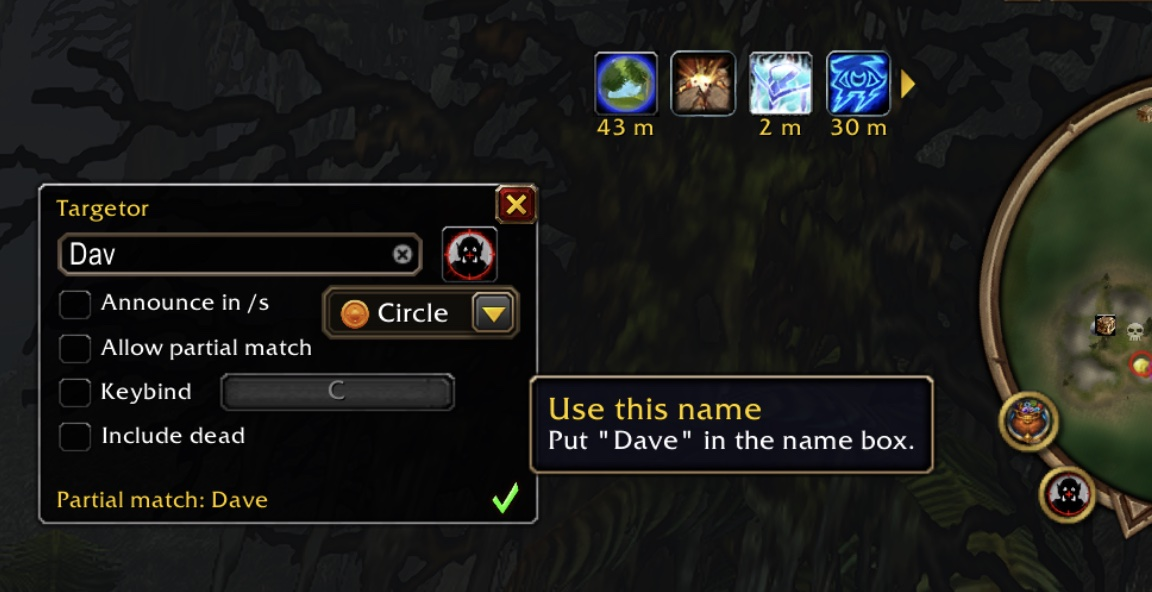
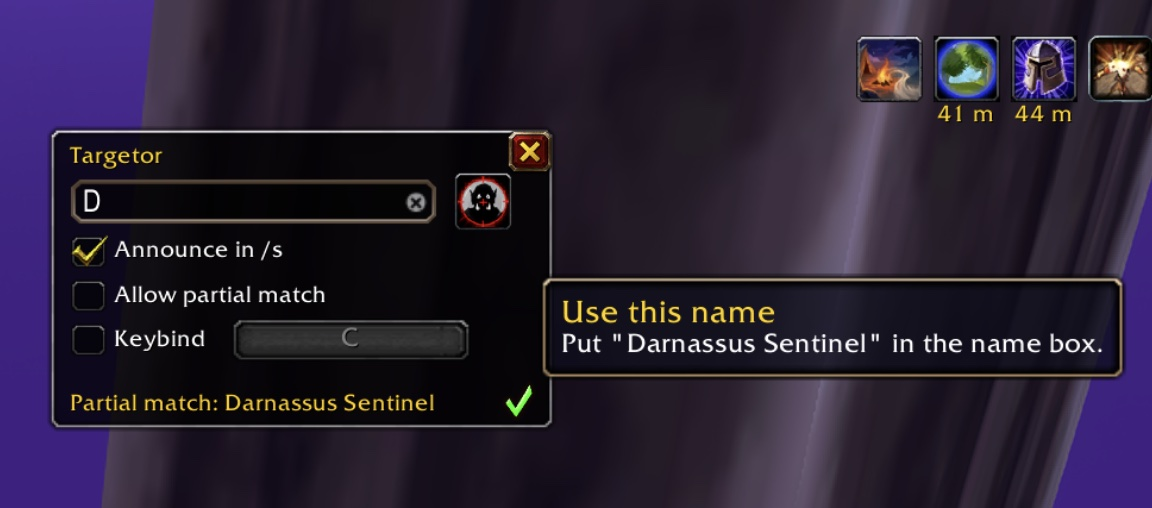
Targetor: roll back to 1.3.0
Remove the 1.4.0 Include dead option and restore the 1.3.0 behaviour.
Update the README and the main screenshot to match.

diff --git a/README.md b/README.md
@@ -5,7 +5,7 @@ They're built for and tested on the 1.x "Forever" client, and their `.toc` files
 
 | Addon | Version | What it does |
 | --- | --- | --- |
-| [**Targetor**](#targetor) | 1.4.0 | Type a name and click, or press your keybind, to target it. Exact matches get a raid marker of your choice (square by default) and an optional `/s` announcement. |
+| [**Targetor**](#targetor) | 1.3.0 | Type a name and click, or press your keybind, to target it. Exact matches get a raid marker of your choice (square by default) and an optional announcement in `/s`, `/p`, `/e` or `/y`. |
 | [**Gold Audit**](#gold-audit) | 1.0.0 | Records every change to your gold and what caused it, with a ledger, totals and filters. |
 | [**Scale Counts**](#scale-counts) | 1.0.0 | Resizes, recolours and repositions the item/reagent count on action bar buttons. |
 
@@ -24,12 +24,12 @@ The folders are prefixed with `Jukes`, but the addons show in-game as **Targetor
 
 ## Targetor
 
-![Targetor window showing a partial match, the tick button and the Include dead checkbox](JukesScreenshots/Targetor/targetor-partial-match.jpg)
+![Targetor window showing a partial match with the tick button](JukesScreenshots/Targetor/targetor-partial-match.jpg)
 
 A small window for finding a mob or player by name.
 
 - Type a name and click the **target icon**, or press your [keybind](#keybind).
-- If a mob or player with **exactly** that name is nearby, Targetor targets it, puts your chosen raid marker on it (**square** by default), says `Found <Name>! {square}` in `/s`, and shows "Found" in the window. Capital letters don't matter.
+- If a mob or player with **exactly** that name is nearby, Targetor targets it, puts your chosen raid marker on it (**square** by default), announces `Found <Name>! {square}` (in `/s` by default), and shows "Found" in the window. Capital letters don't matter.
 - Click the **minimap button** to show or hide the window, and drag it to move it around the minimap. `/targetor` also toggles the window.
 - The clear button empties the name box.
 
@@ -37,15 +37,11 @@ A small window for finding a mob or player by name.
 
 | Option | What it does |
 | --- | --- |
-| Announce in /s | Turns the `/s` message on or off. Only exact matches are ever announced. |
-| Marker dropdown | Picks the raid marker put on a found target: star, circle, diamond, triangle, moon, **square** (default), cross or skull, or **No marker** to only target. The `/s` message shows the same marker. |
-| Allow partial match | **Off** (default): only an exact name is marked. A partial match, such as "D" finding "Darnassus Sentinel", is targeted but not marked, and the window shows **"Partial match: Darnassus Sentinel"**.<br>**On:** a partial match is marked too, but still not announced. |
+| Announce in /s | Turns the announcement on or off. The label shows the channel chosen in [Settings](#settings) (`/s` by default). Only exact matches are ever announced. |
+| Marker dropdown | Picks the raid marker put on a found target: star, circle, diamond, triangle, moon, **square** (default), cross or skull, or **No marker** to only target. The announcement shows the same marker. |
 | Keybind | Lets a key do the same as clicking the target icon. See [Keybind](#keybind). |
-| Include dead | **Off** (default): dead mobs and players are ignored. They aren't targeted, marked or announced, and the window shows **No living "name" nearby**.<br>**On:** dead ones can be targeted and marked too. |
 
-![Targetor marker dropdown open, Square selected](JukesScreenshots/Targetor/targetor-marker-dropdown.jpg)
-
-**Tick button:** after a partial match (as in the screenshot at the top), click the green **tick** to put the full name in the name box. Your next search is then an exact match, so it gets marked and announced.
+**Tick button:** after a partial match, click the green **tick** to put the full name in the name box. Your next search is then an exact match, so it gets marked and announced.
 
 An exact name always wins: if both an exact and a partial match are nearby, Targetor picks the exact one.
 
@@ -66,10 +62,10 @@ Options → AddOns → Targetor:
 
 | Setting | Default | |
 | --- | --- | --- |
-| Allow partial match | Off | The same as the checkbox on the window. |
-| Announce in /s | On | The same as the checkbox on the window. |
+| Allow partial match | Off | **Off:** only an exact name is marked. A partial match, such as "D" finding "Darnassus Sentinel", is targeted but not marked, and the window shows **"Partial match: Darnassus Sentinel"**.<br>**On:** a partial match is marked too, but still not announced. |
+| Announce | On | The same as the checkbox on the window. |
+| Announce in | /s | Where the announcement goes: `/s` say, `/p` party, `/e` emote or `/y` yell. Party is skipped when you're not in a group. |
 | Marker | Square | The same as the dropdown on the window. |
-| Include dead | Off | The same as the checkbox on the window. |
 | Use keybind | Off | The same as the **Keybind** checkbox on the window. Choose the key on the window. |
 | Window opacity | 100% | Anywhere from 5% to 100%. |
 
@@ -79,7 +75,6 @@ Options → AddOns → Targetor:
 - **Combat:** during combat you can't change the name, the marker or the partial-match option, show or hide the window, or change the keybind. The button and the keybind still work with the settings you had before. A change made during combat applies as soon as combat ends.
 - **Groups:** in a group, the raid marker needs you to be leader or assist.
 - **Your target:** each search clears your current target first, so an old target isn't reported as found.
-- **Range:** a search only finds mobs and players your game has loaded, roughly what you can see (about 100 yards), and it picks the nearest match first. With **Include dead** off, Targetor skips past up to six dead matches to reach a living one further away.
 
 ---
 
